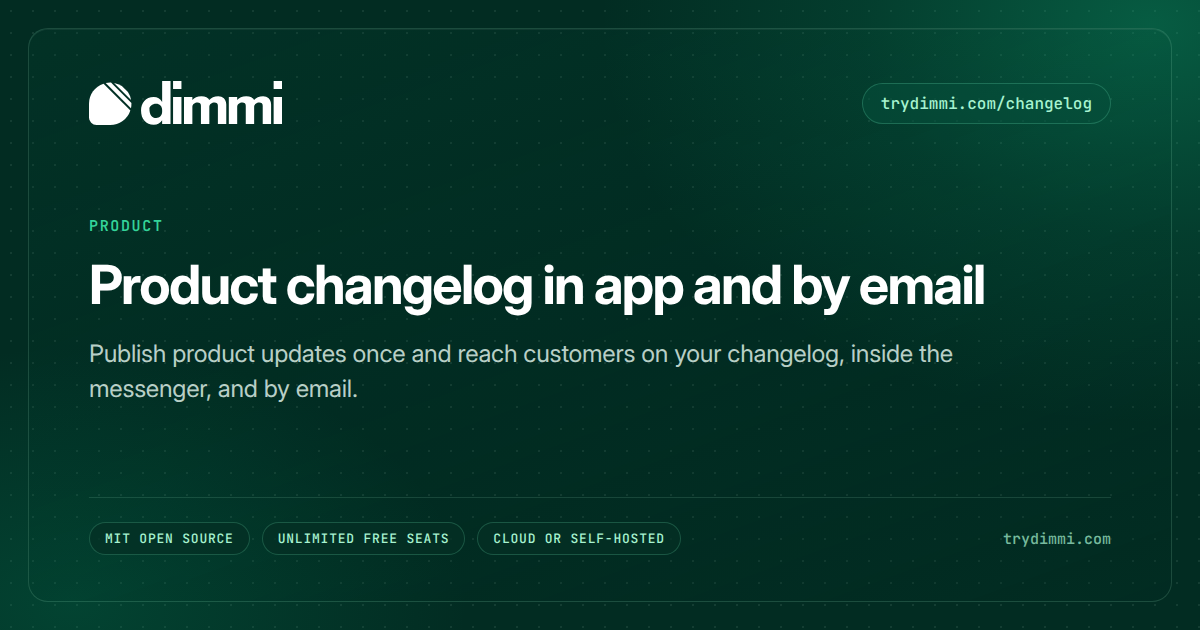
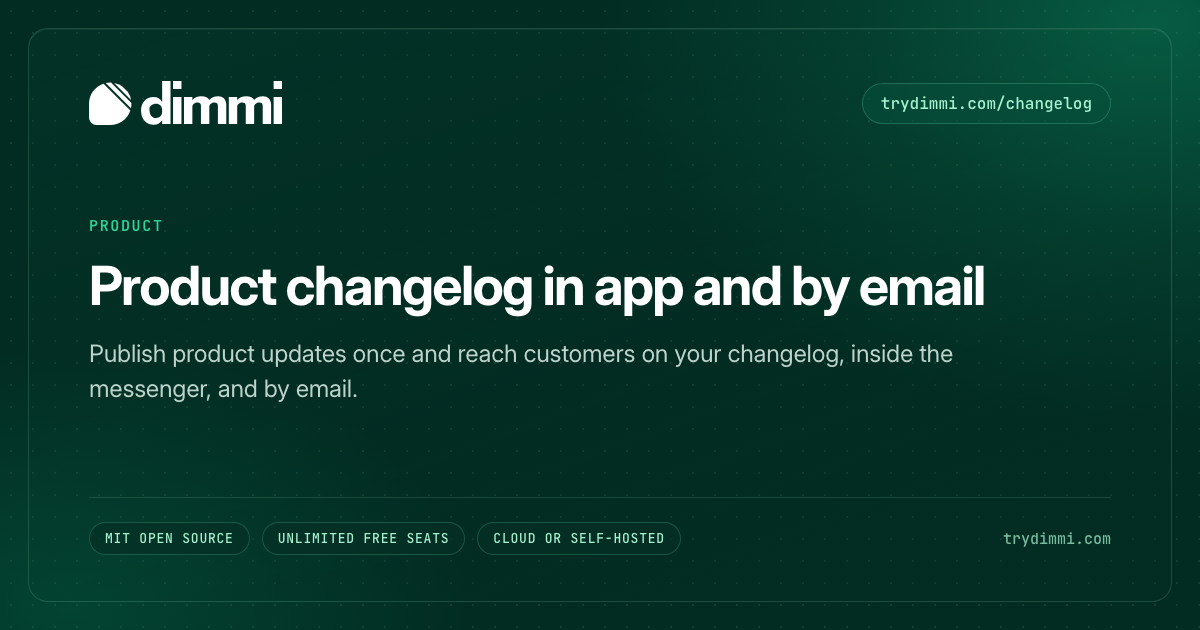
fix: fit og card titles on one line and keep hyphenated words whole

diff --git a/scripts/generate-og-images.ts b/scripts/generate-og-images.ts
@@ -115,6 +115,38 @@ function formatCardTitle(route: RouteMeta): string {
   return withoutBrand;
 }
 
+/**
+ * Keeps hyphenated words such as "in-app" whole, so a title never
+ * breaks after its hyphen.
+ */
+function titleHtml(title: string): string {
+  return title
+    .split(" ")
+    .map((word) => (word.includes("-") ? `<span class="whole">${escapeHtml(word)}</span>` : escapeHtml(word)))
+    .join(" ");
+}
+
+/**
+ * Shrinks a card's title, down to a floor, until it fits on one line.
+ * A title still too long at the floor wraps, balanced.
+ */
+const FIT_TITLE_SCRIPT = `(() => {
+  const title = document.querySelector(".title");
+  if (!title) return;
+  const floor = 40;
+  const start = parseFloat(getComputedStyle(title).fontSize);
+  let size = start;
+  const lines = () => title.getBoundingClientRect().height / (size * 1.12);
+  while (lines() > 1.5 && size > floor) {
+    size -= 1;
+    title.style.fontSize = size + "px";
+  }
+  if (lines() > 1.5) {
+    size = start;
+    title.style.fontSize = start + "px";
+  }
+})()`;
+
 function titleFontSize(title: string): number {
   if (title.length > 76) {
     return 42;
@@ -362,6 +394,9 @@ function buildPageCardHtml(route: RouteMeta, assets: BrandAssets): string {
         color: #ffffff;
         text-wrap: balance;
       }
+      .title .whole {
+        white-space: nowrap;
+      }
       .description {
         font-size: 24px;
         font-weight: 400;
@@ -417,7 +452,7 @@ function buildPageCardHtml(route: RouteMeta, assets: BrandAssets): string {
         </div>
         <div class="body">
           <div class="eyebrow">${escapeHtml(eyebrow)}</div>
-          <div class="title">${escapeHtml(cardTitle)}</div>
+          <div class="title">${titleHtml(cardTitle)}</div>
           <div class="description">${escapeHtml(route.description)}</div>
         </div>
         <div class="footer">
@@ -459,6 +494,7 @@ async function renderPng(
   const page = await context.newPage();
   await page.setContent(html, { waitUntil: "load" });
   await page.evaluate("document.fonts.ready");
+  await page.evaluate(FIT_TITLE_SCRIPT);
   const buffer = await page.screenshot({ type: "png" });
   writeFileSync(outPath, buffer);
   await context.close();
